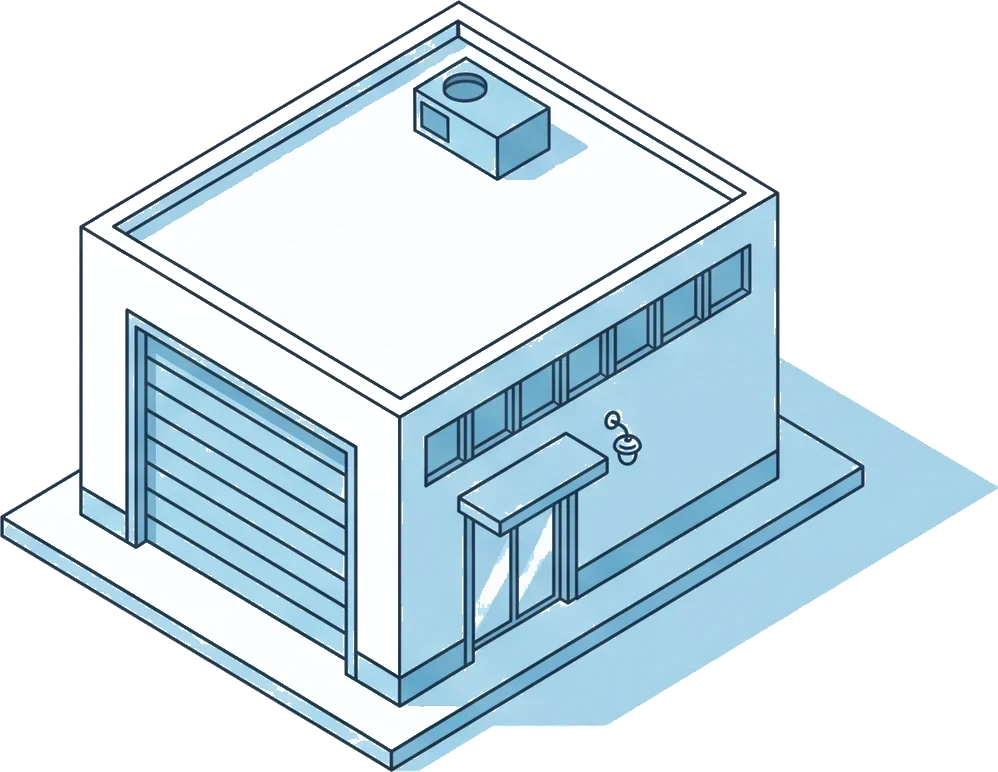
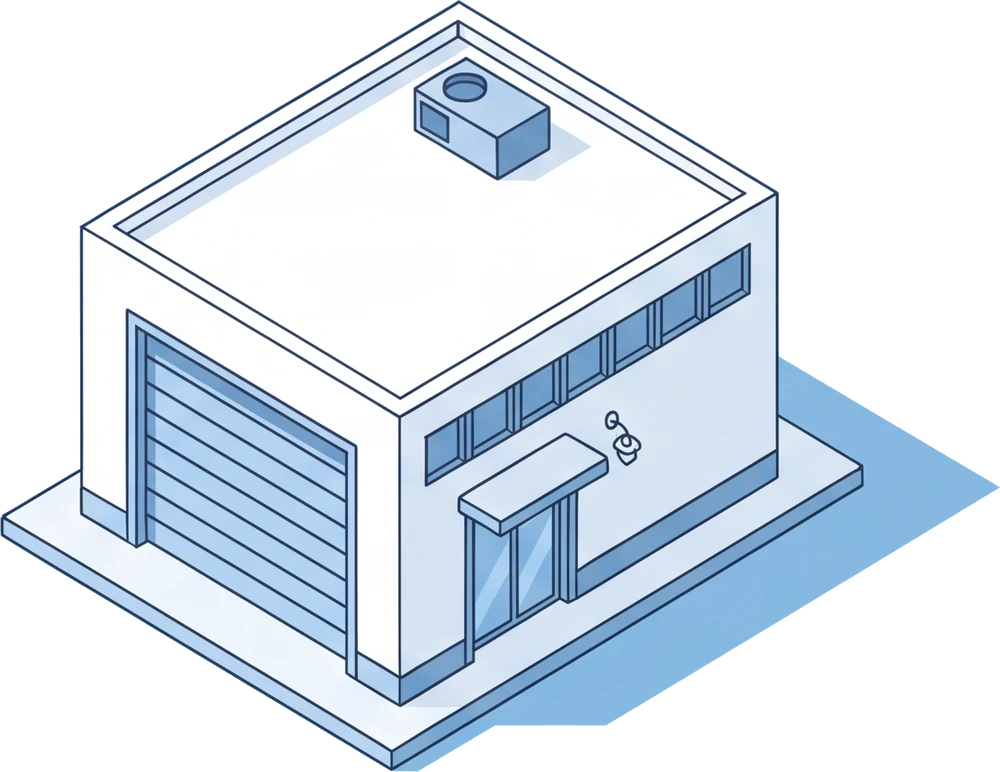
Planches régénérées blanches à liseré bleu, détourées sur fond uni
Le blanchiment en code laissait des imperfections : une seule planche
régénérée (bâtiments blancs, fond bleu uni), découpée et détourée par la
couleur du fond.

diff --git a/public/illustrations/README.md b/public/illustrations/README.md
@@ -57,7 +57,8 @@ sport n'a plus de planche : le type X prend le local générique, seules les
 grandes catégories ont la leur (décision de la propriétaire).]
 
 
-[2026-11-11, plus tard : aplats pâles blanchis en code, comme l'illustration
-de la landing — bâtiment blanc à liseré bleu, posé sur `--board-sky` dans
-la carte du tableau de bord et dans la fenêtre d'accueil de l'onboarding.
-Le bleu sur bleu ne se lisait pas.]
+[2026-11-11, plus tard : ~~aplats pâles blanchis en code~~ planche
+régénérée avec des bâtiments blancs à liseré bleu, comme l'illustration de
+la landing, sur un fond bleu uni (détouré par la couleur du fond) ; posés
+sur `--board-sky` dans la carte du tableau de bord et dans la fenêtre
+d'accueil de l'onboarding. Le bleu sur bleu ne se lisait pas.]
